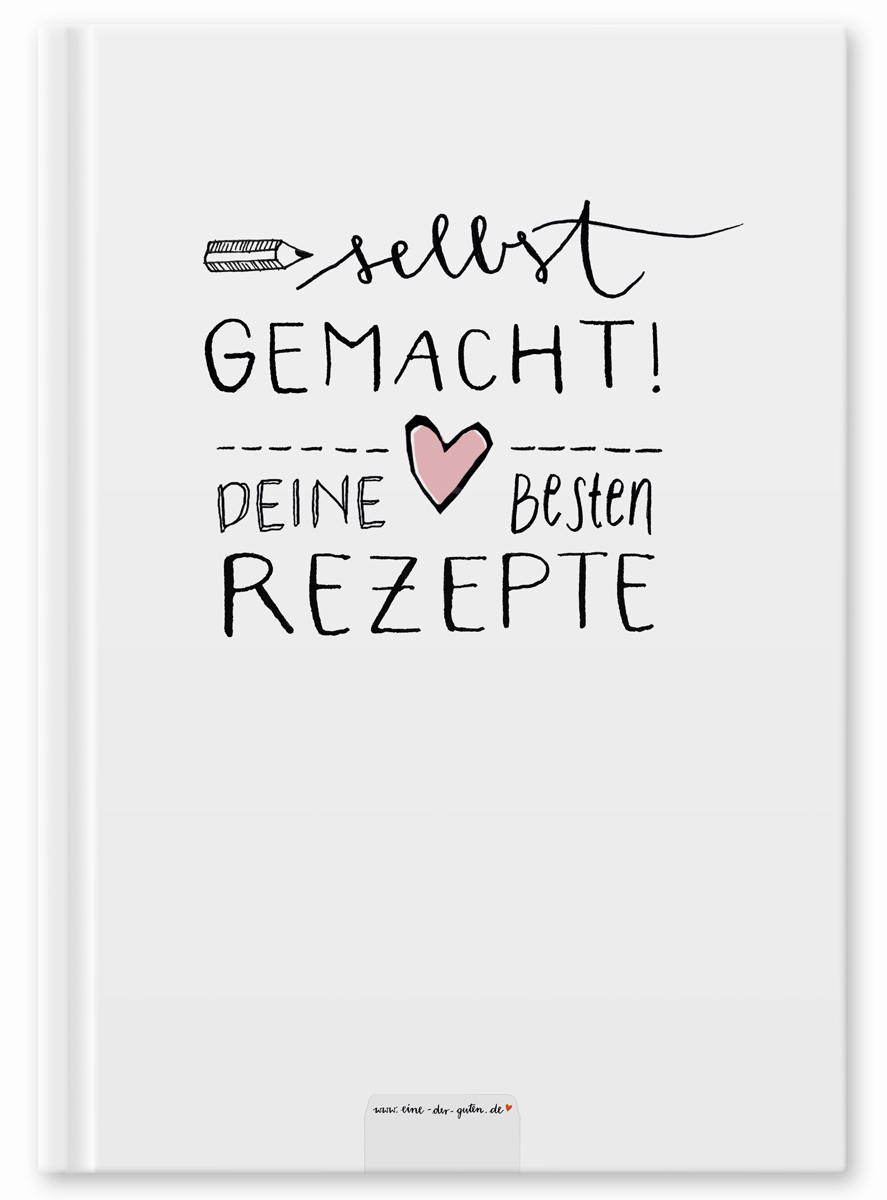
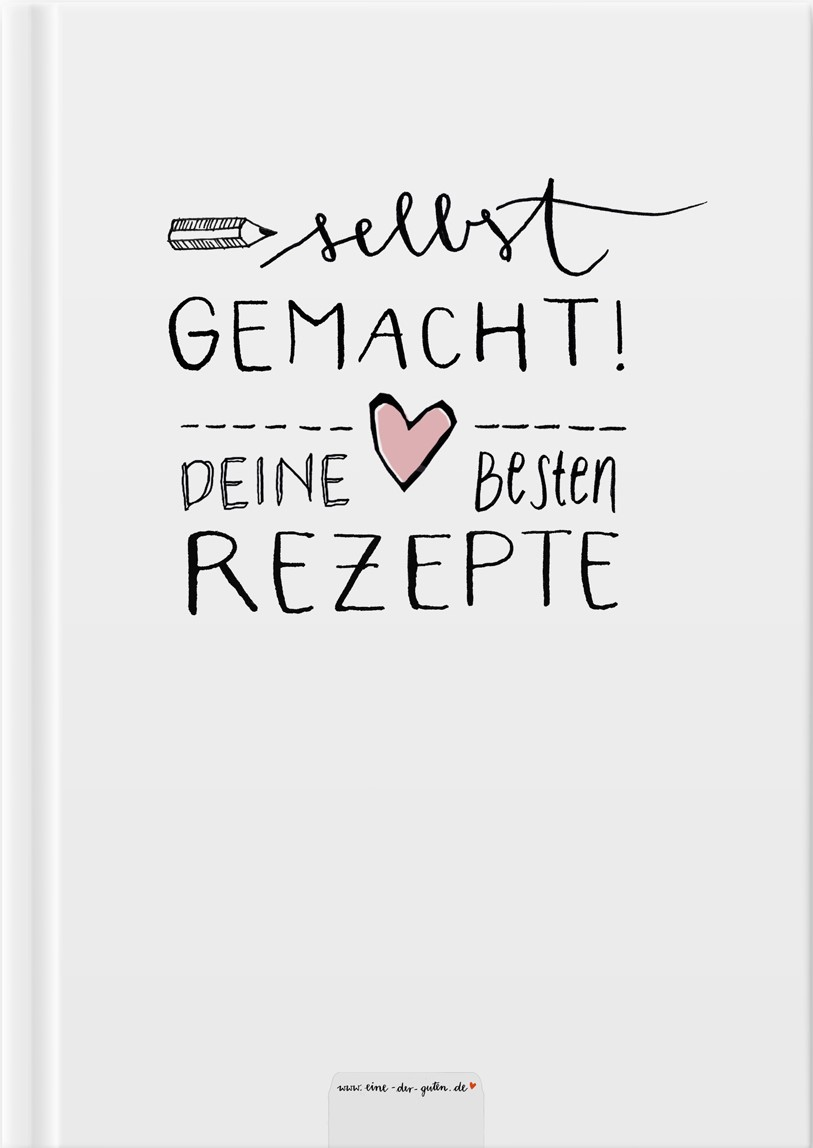
Upgrade trends.html
Buchcover und -autor von 9784040101194 wurde geändert

Changed region(s): [[0.1845, 0.1524, 0.8303, 0.5488], [0.0308, 0.0, 0.9533, 1.0], [0.9533, 0.0, 1.0, 1.0]]

diff --git a/trends.html b/trends.html
@@ -28,12 +28,17 @@
             text-align: center;
         }
 
+        .genre a {
+            color: #000;
+        }
+
         .books-container {
             padding: 20px;
         }
 
         .book {
             margin: 10px 20px;
+            text-align: center;
         }
 
         .general-trends {
@@ -46,6 +51,11 @@
         .img-books {
             height: 285px;
             width: 190px;
+        }
+
+        .ranking {
+            width: 50px;
+            height: 75px;
         }
     </style>
 </head>
@@ -158,16 +168,19 @@
             <div class="books-container" style="display: flex">
                 <!-- Platz 1 -->
                 <div class="book">
+                    <img class="ranking" src="pic/ranking/platz1.jpg">
                     <img class="img-books" src="pic/buecher/f97mmxdvd4781.jpg" alt="1. Comic">
                     <div class="book-title">1. Platz</div>
                 </div>
                 <!-- Platz 2 -->
                 <div class="book">
+                    <img class="ranking" src="pic/ranking/platz2.jpg">
                     <img class="img-books" src="pic/buecher/images.jpg" alt="2. Comic">
                     <div class="book-title">2. Platz</div>
                 </div>
                 <!-- Platz 3 -->
                 <div class="book">
+                    <img class="ranking" src="pic/ranking/platz3.jpg">
                     <img class="img-books" src="pic/buecher/30101546860.jpg" alt="3. Comic">
                     <div class="book-title">3. Platz</div>
                 </div>
@@ -177,17 +190,23 @@
             <h2>Krimi</h2>
             <div class="books-container" style="display: flex">
                 <!-- Platz 1 -->
-                <div class="book">
-                    <img class="img-books" src="pic/buecher/Der_Fall_Bruno_Krimi_Buchcover_124535.jpg" alt="1. Krimi">
-                    <div class="book-title">1. Platz</div>
-                </div>
+                <a href="books/9784040101194.html">
+                    <div class="book">
+                        <img class="ranking" src="pic/ranking/platz1.jpg">
+                        <img class="img-books" src="pic/buecher/Der_Fall_Bruno_Krimi_Buchcover_124535.jpg"
+                             alt="1. Krimi">
+                        <h4>Das Leben mit dem Feind</h4>
+                    </div>
+                </a>
                 <!-- Platz 2 -->
                 <div class="book">
+                    <img class="ranking" src="pic/ranking/platz2.jpg">
                     <img class="img-books" src="pic/buecher/im-wald.jpg" alt="2. Krimi">
                     <div class="book-title">2. Platz</div>
                 </div>
                 <!-- Platz 3 -->
                 <div class="book">
+                    <img class="ranking" src="pic/ranking/platz3.jpg">
                     <img class="img-books" src="pic/buecher/Krimi-Thriller-Cover-1.jpg" alt="3. Krimi">
                     <div class="book-title">3. Platz</div>
                 </div>
@@ -199,22 +218,22 @@
             <div class="books-container" style="display: flex">
                 <!-- Platz 1 -->
                 <div class="book">
+                    <img class="ranking" src="pic/ranking/platz1.jpg">
                     <img class="img-books" src="pic/buecher/71y+wiFaIRL._AC_UF1000,1000_QL80_.jpg" alt="1. Kochbuch"
                          height="285px"/>
-                    <div class="book-title">1. Platz</div>
                     <h4>Backen für Anfänger</h4><br>
                 </div>
                 <!-- Platz 2 -->
                 <div class="book">
+                    <img class="ranking" src="pic/ranking/platz2.jpg">
                     <img class="img-books"
                          src="pic/buecher/Rezeptbuch-selbst-gemacht-Hardcover-17x24r-sw-Kalligrafie-DIY-Rezepte-COVER-Rosa.jpg"
                          alt="2. Kochbuch">
-                    <div class="book-title">2. Platz</div>
                 </div>
                 <!-- Platz 3 -->
                 <div class="book">
+                    <img class="ranking" src="pic/ranking/platz3.jpg">
                     <img class="img-books" src="pic/buecher/8454.jpg" alt="3. Kochbuch">
-                    <div class="book-title">3. Platz</div>
                 </div>
             </div>
         </div>
@@ -224,16 +243,19 @@
             <div class="books-container" style="display: flex">
                 <!-- Platz 1 -->
                 <div class="book">
+                    <img class="ranking" src="pic/ranking/platz1.jpg">
                     <img class="img-books" src="pic/buecher/images (1).jpg" alt="1. Roman">
                     <div class="book-title">1. Platz</div>
                 </div>
                 <!-- Platz 2 -->
                 <div class="book">
+                    <img class="ranking" src="pic/ranking/platz2.jpg">
                     <img class="img-books" src="pic/buecher/20220803_224434.jpg" alt="2. Roman">
                     <div class="book-title">2. Platz</div>
                 </div>
                 <!-- Platz 3 -->
                 <div class="book">
+                    <img class="ranking" src="pic/ranking/platz3.jpg">
                     <img class="img-books" src="pic/buecher/4c9fd7c5a67ce9fa.jpg" alt="3. Roman">
                     <div class="book-title">3. Platz</div>
                 </div>

diff --git a/books/9784040101194.html b/books/9784040101194.html
@@ -109,12 +109,12 @@
     </div>
 </header>
 <div style="display: flex; margin: 20px;">
-    <img src="../pic/buecher/9784040101194.jpg" style="width: 20%">
+    <img src="../pic/buecher/Der_Fall_Bruno_Krimi_Buchcover_124535.jpg" style="width: 20%">
     <div style="margin: 0 20px">
         <h1>Das Leben mit dem Feind</h1>
         <div style="display: flex">
             <div style="width: 300px">
-                <p>Autor: Alexander Sagurkski</p>
+                <p>Autor: Tom Sillinski</p>
                 <p>Genre: Krimis</p>
                 <p>Veröffentlichung: 20.01.2013</p>
                 <p>ISBN: 9784040101194</p>
@@ -122,7 +122,7 @@
             <div style="max-width: 800px">
                 <h4>Inhalt</h4>
                 <p>
-                    In Alexander Sagurkskis fesselndem Krimi 'Das Leben mit dem Feind' verweben sich Intrigen und Geheimnisse zu einem undurchdringlichen Netz.</p>
+                    In Tom Sillinskis fesselndem Krimi 'Das Leben mit dem Feind' verweben sich Intrigen und Geheimnisse zu einem undurchdringlichen Netz.</p>
                 <!-- Add the "Weiterlesen" button below the first sentence -->
                 <button id="weiterlesen-button">Weiterlesen</button>
                 <!-- Hidden text that will be displayed when the button is clicked -->
@@ -229,30 +229,30 @@
 <footer>
     <div class="social-icons">
         <!-- Links zu den Sozialen Medien mit Bildern -->
-        <a href="https://www.facebook.com/readbetter" target="_blank"> <img src="pic/Socials/facebook.png" alt="Facebook" class="sozial-icon"></a>
-        <a href="https://www.youtube.com/readbetter" target="_blank"><img src="pic/Socials/youtube.png" alt="YouTube" class="sozial-icon"></a>
-        <a href="https://www.instagram.com/readbetter" target="_blank"><img src="pic/Socials/instagram.png" alt="Instagram" class="sozial-icon"></a>
+        <a href="https://www.facebook.com/readbetter" target="_blank"> <img src="../pic/Socials/facebook.png" alt="Facebook" class="sozial-icon"></a>
+        <a href="https://www.youtube.com/readbetter" target="_blank"><img src="../pic/Socials/youtube.png" alt="YouTube" class="sozial-icon"></a>
+        <a href="https://www.instagram.com/readbetter" target="_blank"><img src="../pic/Socials/instagram.png" alt="Instagram" class="sozial-icon"></a>
     </div>
     <br>
     <!-- Link zum Datenschutz und Impressum -->
     <div id="footer-links" style="text-align: left">
 
-        <img src="pic/logoText.png" id="footer-logo" style="width: 25%;">
+        <img src="../pic/logoText.png" id="footer-logo" style="width: 25%;">
         <div class="footer-container" id="left-footer-container">
-            <a href="mainpage.html">Startseite</a><br>
-            <a href="AboutUs.html">Über Uns</a><br>
+            <a href="../mainpage.html">Startseite</a><br>
+            <a href="../AboutUs.html">Über Uns</a><br>
             <a href="#">Kontakt</a><br>
             <a href="#">FAQ</a>
         </div>
         <div class="footer-container">
-            <a href="datenschutz.html">Datenschutz</a><br>
-            <a href="impressum.html">Impressum</a><br>
+            <a href="../datenschutz.html">Datenschutz</a><br>
+            <a href="../impressum.html">Impressum</a><br>
             <a onclick="print()">Drucken</a><br>
             <a href="#">AGB</a>
         </div>
         <div class="footer-container">
-            <a href="login.html"><img src="pic/login-weiss.png" style="width: 45px; height: 45px; margin: 8px;"></a><br>
-            <a href="#"><img src="pic/lupe.png" style="height: 45px; width: 45px; margin: 8px" onclick="toggleSearchMenu()"></a>
+            <a href="../login.html"><img src="../pic/login-weiss.png" style="width: 45px; height: 45px; margin: 8px;"></a><br>
+            <a href="#"><img src="../pic/lupe.png" style="height: 45px; width: 45px; margin: 8px" onclick="toggleSearchMenu()"></a>
         </div>
     </div>
 </footer>
